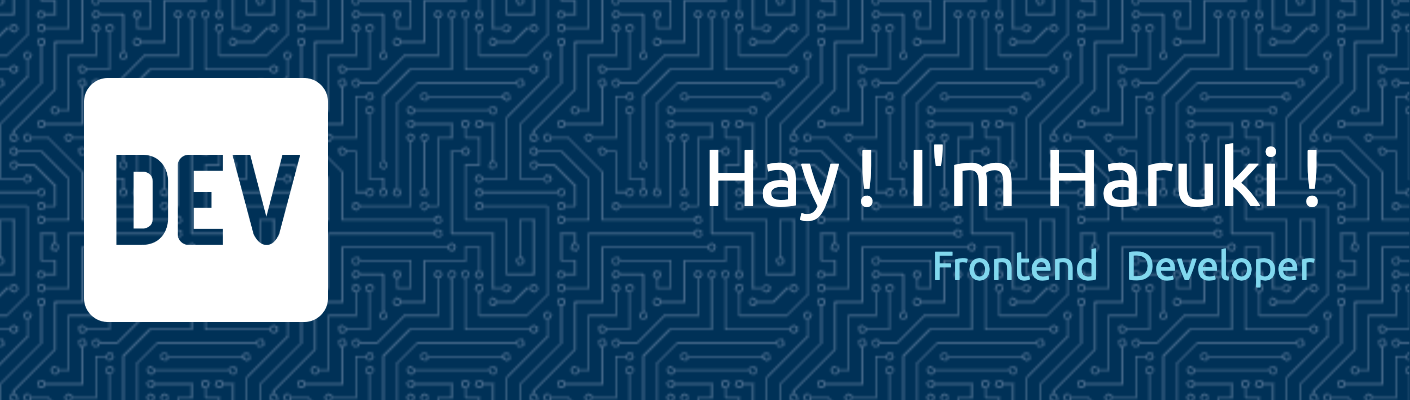
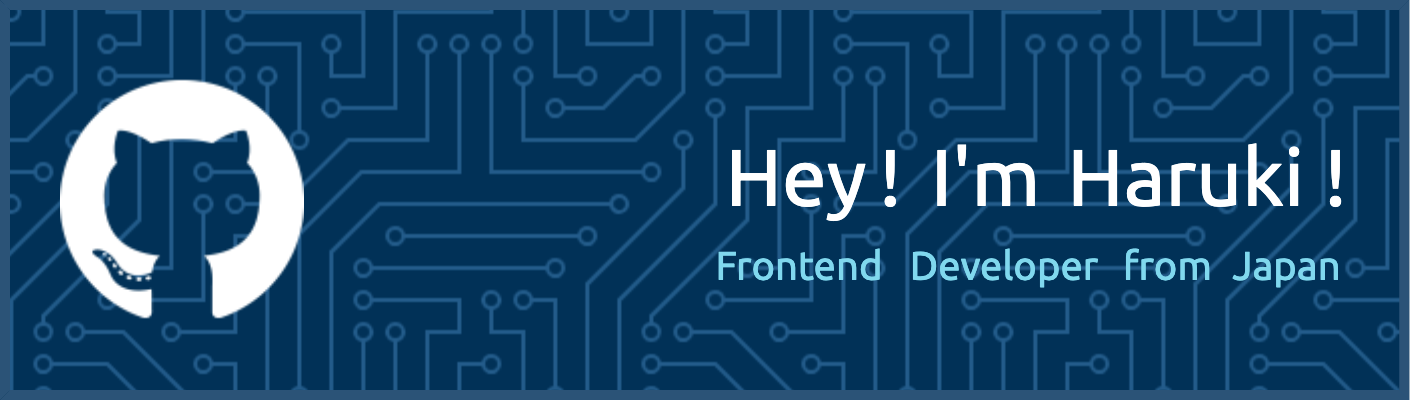
fix: main visual

diff --git a/README.md b/README.md
@@ -1,8 +1,5 @@
 ![メインビジュアル](images/main-visual.png)
 
-# ![SVG Animation](./icons/introduction.svg) Hi, I'm Haruki!
-
-I'm a Frontend developer from Japan 🇯🇵
 
 ## ![SVG Animation](./icons/my-skills.svg) My Skills
 
